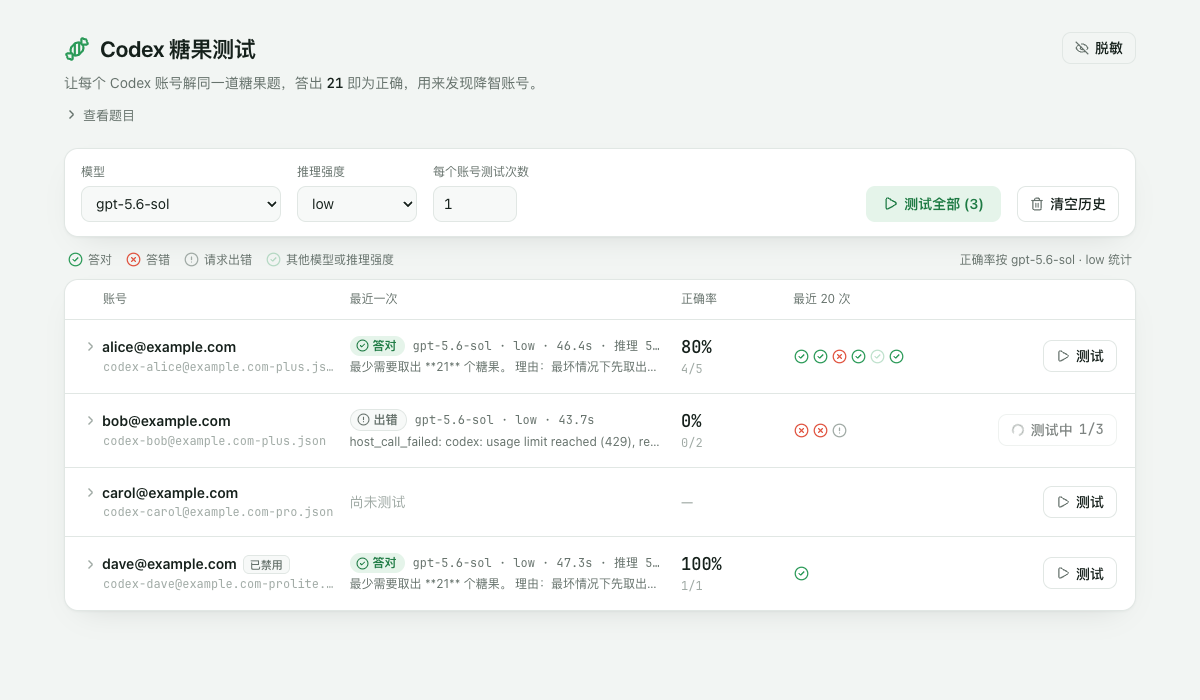
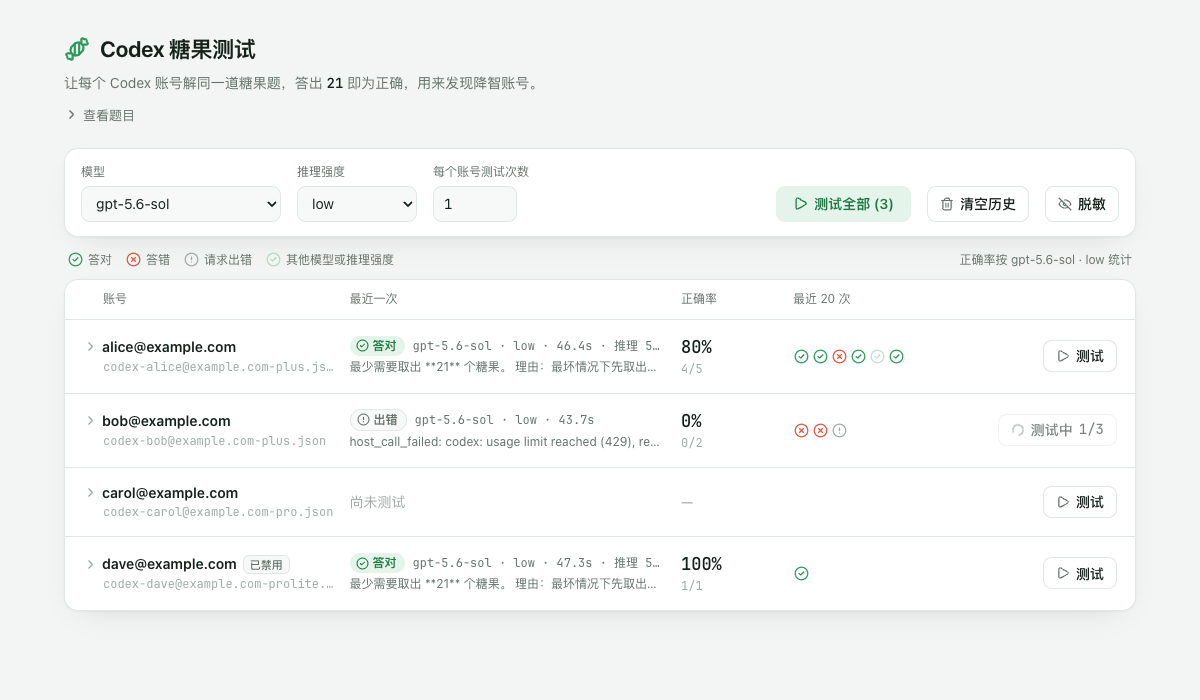
feat: add install scripts and move the mask toggle into the toolbar
Add install.sh and install.ps1, which download the latest release for
the current platform, verify it against checksums.txt and place the
library in ./plugins. The README documents them together with the
config.yaml settings.

The CPA management panel overlays its own buttons on the top right of
plugin pages, which covered the mask toggle, so it now sits in the
toolbar next to the other actions.

Changed region(s): [[0.6475, 0.24, 0.925, 0.33], [0.8942, 0.06, 0.9558, 0.09]]

diff --git a/ui.html b/ui.html
@@ -35,7 +35,6 @@
     @media (prefers-reduced-motion: reduce) { .spin { animation: none; } }
 
     header { margin-bottom: 20px; }
-    .header-row { display: flex; align-items: flex-start; justify-content: space-between; gap: 16px; }
     h1 { display: flex; align-items: center; gap: 10px; margin: 0; font-size: 22px; font-weight: 650; letter-spacing: -0.01em; }
     h1 .icon { width: 26px; height: 26px; color: var(--apple); }
     .lede { margin: 6px 0 0; color: var(--muted); }
@@ -178,13 +177,8 @@
 <body>
   <main>
     <header>
-      <div class="header-row">
-        <div>
-          <h1><i data-icon="candy"></i>Codex 糖果测试</h1>
-          <p class="lede">让每个 Codex 账号解同一道糖果题，答出 <b class="mono">21</b> 即为正确，用来发现降智账号。</p>
-        </div>
-        <button id="mask" class="btn ghost" type="button" hidden></button>
-      </div>
+      <h1><i data-icon="candy"></i>Codex 糖果测试</h1>
+      <p class="lede">让每个 Codex 账号解同一道糖果题，答出 <b class="mono">21</b> 即为正确，用来发现降智账号。</p>
       <details class="problem">
         <summary><i data-icon="chevron-right" data-class="chev"></i>查看题目</summary>
         <div class="problem-body">
@@ -219,6 +213,7 @@
         <div class="spacer"></div>
         <button id="run-all" class="btn" type="submit"></button>
         <button id="clear" class="btn ghost" type="button"></button>
+        <button id="mask" class="btn ghost" type="button"></button>
       </form>
 
       <div class="legend">
@@ -493,7 +488,6 @@
     function showLogin(message) {
       clearTimeout(pollTimer);
       $("app").hidden = true;
-      $("mask").hidden = true;
       $("login").hidden = false;
       $("login-error").hidden = !message;
       $("login-error").textContent = message || "";
@@ -503,7 +497,6 @@
     async function start() {
       $("login").hidden = true;
       $("app").hidden = false;
-      $("mask").hidden = false;
       try {
         models = ((await api("/v0/management/model-definitions/codex")).models || []).filter((m) => !HIDDEN_MODEL(m.id));
       } catch (err) {

diff --git a/plugin.go b/plugin.go
@@ -18,7 +18,7 @@ import (
 
 const (
 	pluginID       = "cpa-codex-candy-eval"
-	pluginVersion  = "0.1.5"
+	pluginVersion  = "0.1.6"
 	abiVersion     = 1
 	schemaVersion  = 6
 	managementBase = "/v0/management/plugins/" + pluginID

diff --git a/README.md b/README.md
@@ -6,8 +6,36 @@
 
 ## 安装
 
-1. 从 [Releases](https://github.com/haowang02/cpa-plugin-codex-candy-eval/releases/latest) 下载与 CPA 运行平台对应的压缩包，解压后把插件文件放进 CPA 的 `plugins` 目录（Docker 部署时放进映射到 `/CLIProxyAPI/plugins` 的目录）。
-2. 在 CPA 管理面板的「插件管理」中启用 `cpa-codex-candy-eval`。
+在 CPA 根目录运行，插件会安装到当前目录的 `plugins/`。Docker 部署时，在挂载到容器 `/CLIProxyAPI/plugins` 的 `plugins` 目录的上一级目录运行。
+
+macOS 和 Linux：
+
+```sh
+curl -fsSL https://raw.githubusercontent.com/haowang02/cpa-plugin-codex-candy-eval/main/install.sh | sh
+```
+
+Windows 请先停止 CPA，再在 PowerShell 中运行：
+
+```powershell
+irm https://raw.githubusercontent.com/haowang02/cpa-plugin-codex-candy-eval/main/install.ps1 | iex
+```
+
+也可以从 [Releases](https://github.com/haowang02/cpa-plugin-codex-candy-eval/releases/latest) 下载对应平台的压缩包，解压后将插件文件放入 `plugins/`。
+
+## 配置
+
+在 CPA 的 `config.yaml` 中启用插件，保存后 CPA 会自动加载：
+
+```yaml
+plugins:
+  enabled: true
+  dir: "plugins"
+  configs:
+    cpa-codex-candy-eval:
+      enabled: true
+```
+
+插件没有其他配置项。升级插件后需要重启 CPA。
 
 ## 使用
 
